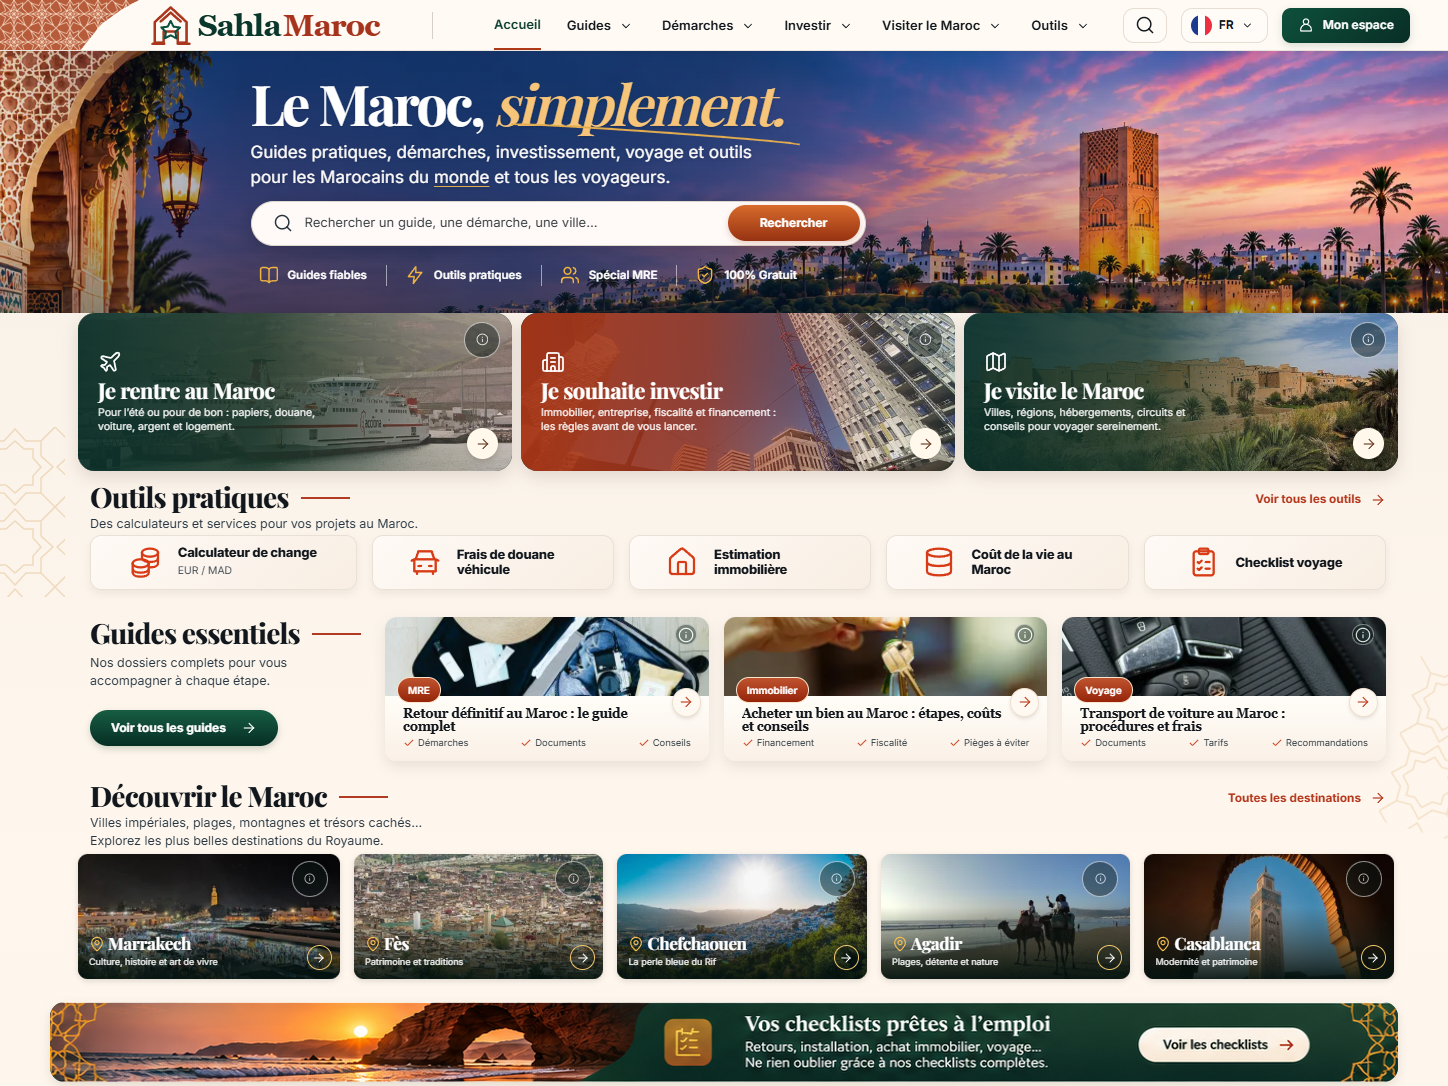
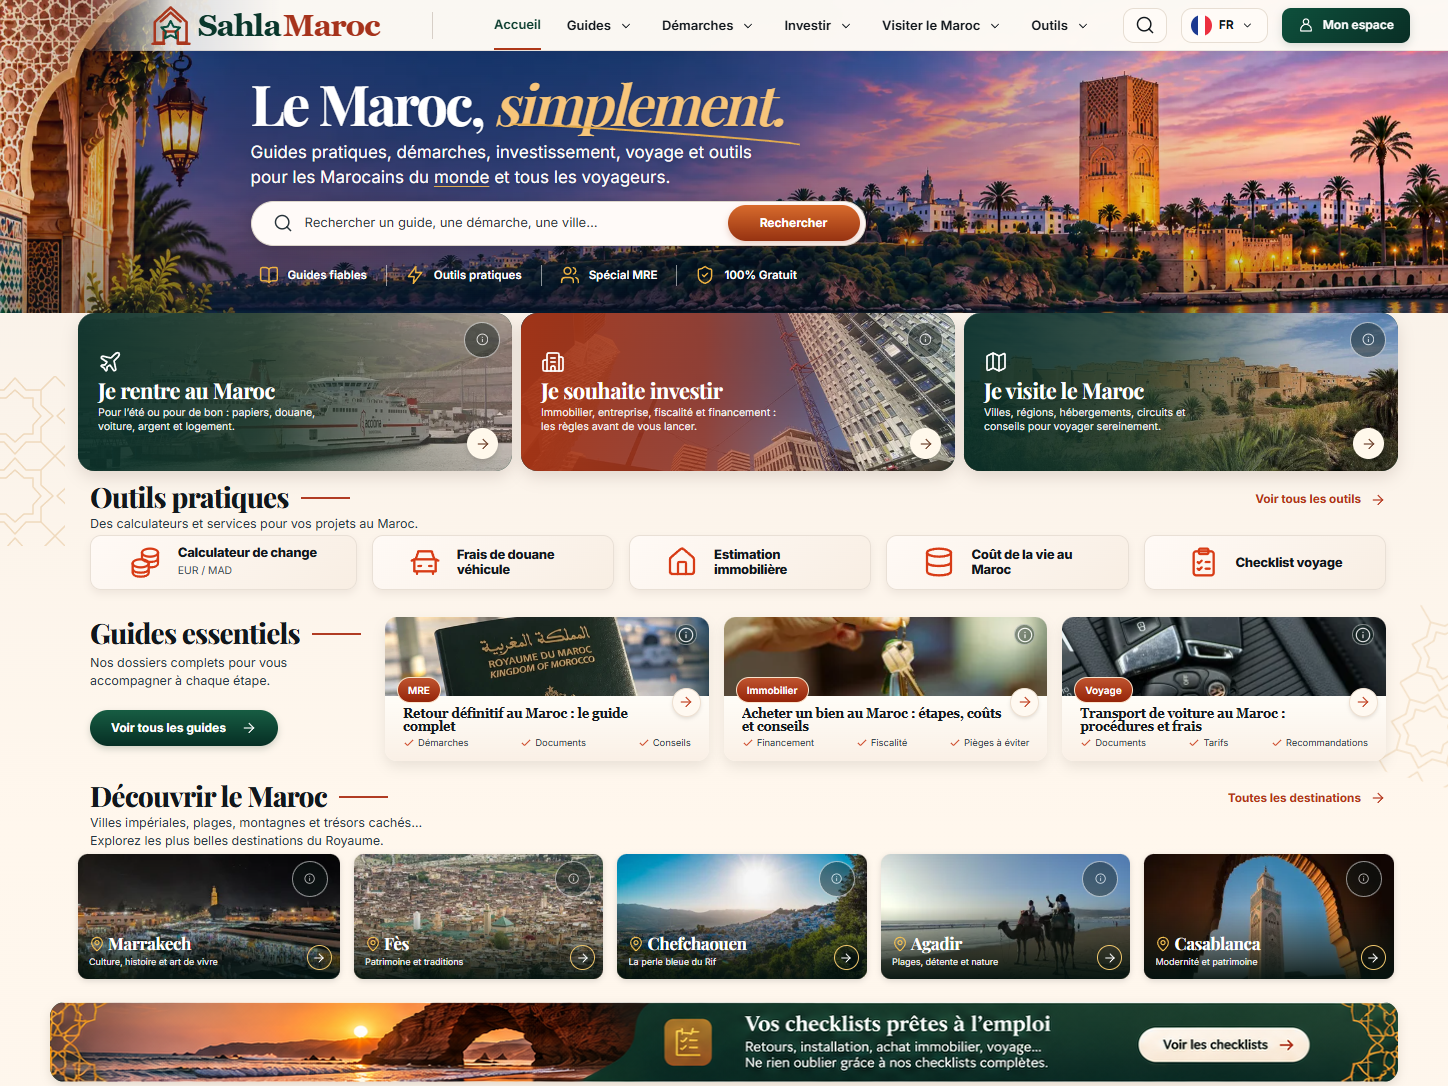
Keep passport lettering visible and refresh visual audit evidence

diff --git a/src/styles/template.css b/src/styles/template.css
@@ -390,7 +390,7 @@ details[open] > .tpl-nav__chevron svg { transform: rotate(180deg); }
 .tpl-guide:hover { transform: translateY(-3px); box-shadow: 0 12px 22px rgb(52 38 28 / .18); }
 .tpl-guide__media { position: relative; height: 79px; overflow: hidden; background: #eadfd2; }
 .tpl-guide__media img { width: 100%; height: 100%; object-fit: cover; display: block; }
-.tpl-guide__media--passport img { transform: scale(1.75); transform-origin: left center; object-position: 24% center; }
+.tpl-guide__media--passport img { width: 175%; max-width: none; object-position: left 12%; }
 .tpl-guide__body { position: relative; height: 65px; padding: 11px 18px 4px; background: linear-gradient(180deg, #fffdf8, #faf0e6); }
 .tpl-guide__tag {
   position: absolute;

diff --git a/visual-audit/README.md b/visual-audit/README.md
@@ -60,3 +60,9 @@ bandeau checklists **1002** (h 80), héros **51–388**, en-tête **0–51**.
   par le `overflow: hidden` des cartes.
 - Icônes d'outils alignées sur la maquette (pièces, voiture, maison, portefeuille, liste) et
   étiquettes de guides raccourcies (MRE, Immobilier, Voyage).
+
+## Contrôle du 18 novembre 2026
+
+Capture Edge du build actuel à 1448 × 1086 : arche continue jusqu’en haut, titre du passeport HD désormais visible. Build : 936 pages ; check:dist : zéro erreur, dont 155 pages ville. Les photographies et la typographie des cartes parcours restent différentes de la référence ; la signature visuelle n’est pas déclarée terminée.
+
+Le calcul des bandes utilisait une indexation de colonne au lieu des lignes ; il est corrigé, ainsi que le seuil moyen de 24 par canal et la dernière bande partielle. Le rapport est désormais écrit avec sa date et son URL. Les anciens pourcentages ne sont donc pas directement comparables. Mesure actuelle : écart moyen 36,60 ; 39,03 % des pixels dépassent le seuil moyen. Ces métriques ne prouvent pas seules la qualité du design.
